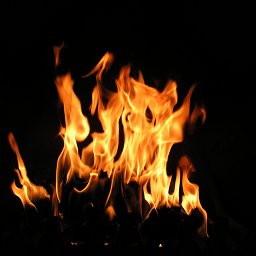
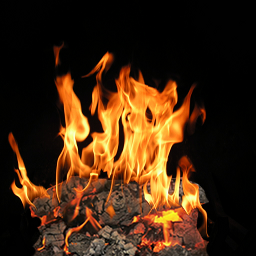
a little better fire textures

Changed region(s): [[0.0938, 0.6875, 0.8125, 1.0]]

diff --git a/src/fire.c b/src/fire.c
@@ -28,6 +28,7 @@
 
 static int fire_id[MAX_FIRE_TEXTURES];          // fire displaylist glcompile-id
 static GLuint firetexbind[MAX_FIRE_TEXTURES];   // texture bindings
+static GLuint firemeshtexbind;                  // texture binding for the mesh
 
 /***********************************************************************
  *                  Initialize the fire textures                       *
@@ -37,6 +38,8 @@ static GLuint firetexbind[MAX_FIRE_TEXTURES];   // texture bindings
 void init_fire(void) {
     int i;
     char firename[10];
+
+    create_png_texbind("firemesh.png", &firemeshtexbind, 3, GL_RGB);
     for (i=0;i<MAX_FIRE_TEXTURES;i++) {
     	  sprintf(firename,"fire%i.png",i);
     	  create_png_texbind(firename, &firetexbind[i], 3, GL_RGB);
@@ -59,6 +62,18 @@ void init_fire(void) {
           glVertex3f(0.75,0.75,0.0);
           glTexCoord2s(1,0);
           glVertex3f(0.75,0.0,0.0);
+         glEnd();
+         glBlendFunc (GL_ONE, GL_SRC_ALPHA);
+         glBindTexture(GL_TEXTURE_2D,firemeshtexbind);
+         glBegin(GL_QUADS);
+          glTexCoord2s(0,0);
+          glVertex3f(-0.08,0.62,-0.12);
+          glTexCoord2s(0,1);
+          glVertex3f(-0.08,0.75,-0.12);
+          glTexCoord2s(1,1);
+          glVertex3f(0.695,0.75,-0.12);
+          glTexCoord2s(1,0);
+          glVertex3f(0.695,0.62,-0.12);
          glEnd();
          glDisable(GL_BLEND);
          glEndList();

diff --git a/src/billard3d.c b/src/billard3d.c
@@ -4472,7 +4472,7 @@ void DisplayFunc( void )
        }
        if(next_flame<0.05){
            next_flame=NEXT_FLAME_COUNTER;
-           if((++flame_frame)>13) {
+           if((++flame_frame)>MAX_FIRE_TEXTURES-1) {
            	flame_frame = 0;
            }
        }

diff --git a/src/billmove.c b/src/billmove.c
@@ -26,7 +26,7 @@
 
 #include "options.h"
 #include "billmove.h"
-#include "math.h"
+#include <math.h>
 #include "vmath.h"
 #include "player.h"
 #include <stdlib.h>
